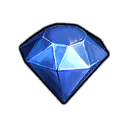
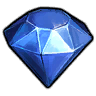
Normalize karma, laurels and gems images

diff --git a/assets/css/main.css b/assets/css/main.css
@@ -56,7 +56,8 @@ img {
 }
 
 .wallet-header img.icon {
-    height: 64px;
+    height: 48px;
+    margin-top: 8px;
     margin-left: 5px;
     float: left;
 }
